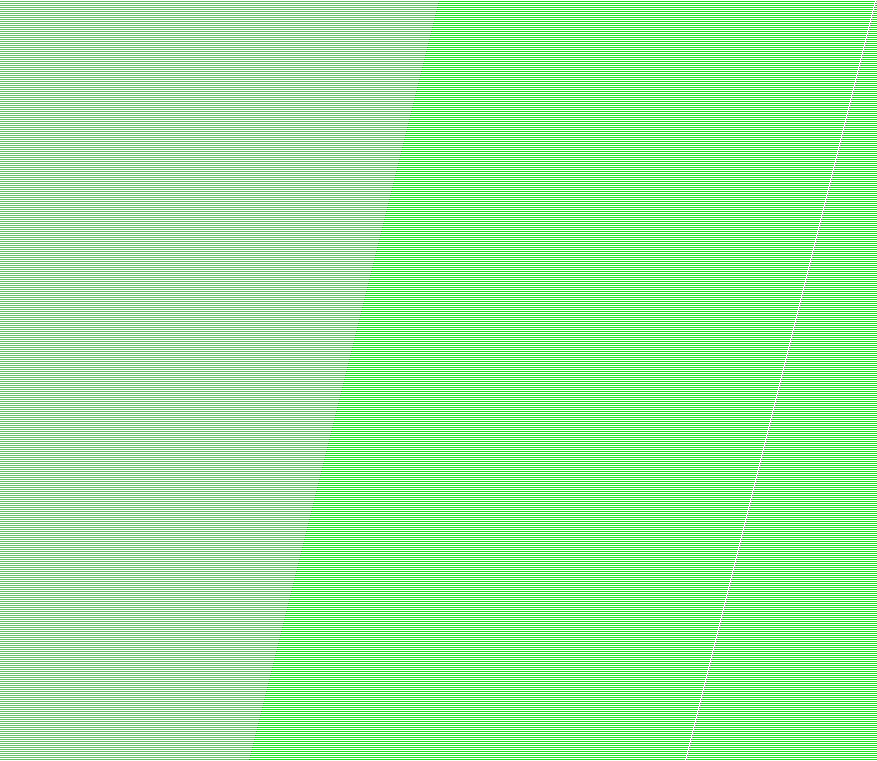
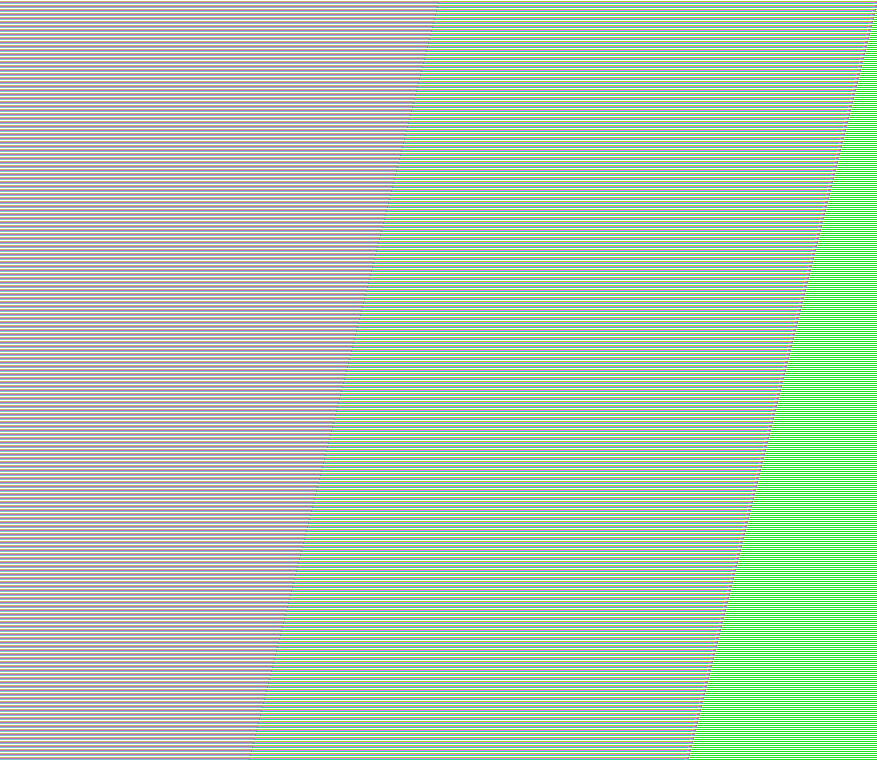
Very want to see n-channel picture

diff --git a/work/main.c b/work/main.c
@@ -71,7 +71,12 @@ int main() {
     }
 
     for (i = 0; i < ih*iw; i++) {
-        if (newIm[i] < 50) odata[i*(n-2)] = 150;
+        if (newIm[i] < 50) {
+            odata[i*n] = 150;
+            odata[i*n+1] = 146;
+            odata[i*n+2] = 134;
+            if (n == 4) odata[i*n+4] = 200;
+        }
         if (newIm[i] > 150) odata[i*(n-2)] = 220;
         if ((newIm[i] <= 150) && (newIm[i] >= 50)) odata[i*(n-1)] = 230;
     }
